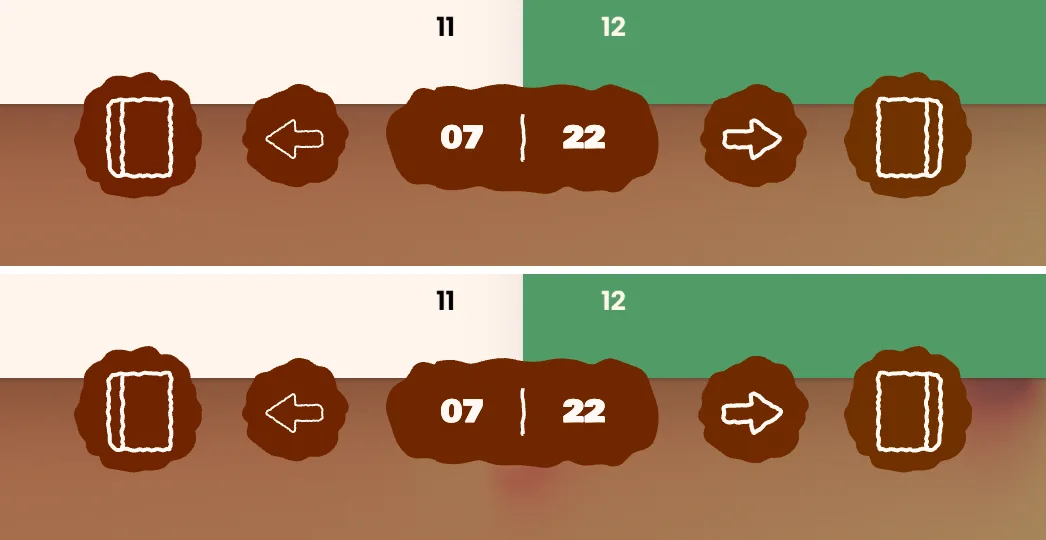
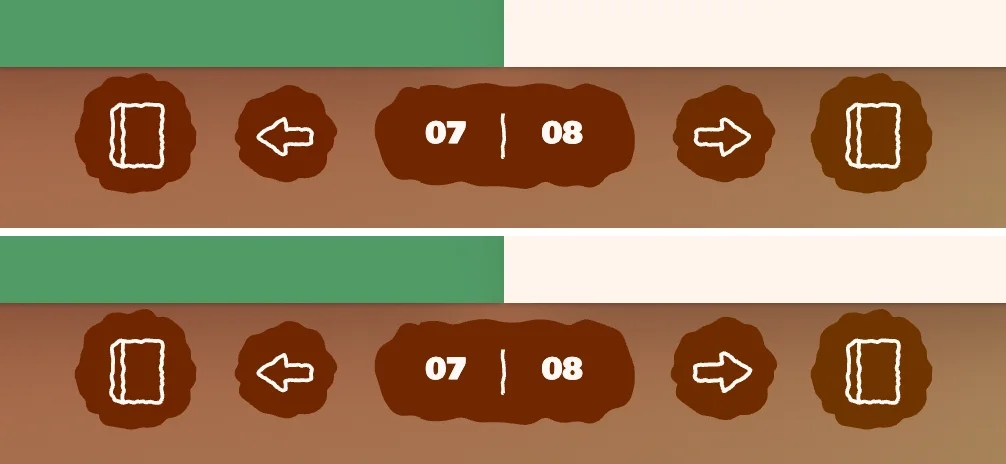
Chrome: docs and captures for the second cut — folios, the fit, the sky step, the new dials' measurements

diff --git a/docs/reader.md b/docs/reader.md
@@ -223,11 +223,12 @@ row).
 > the repo). Measurements are `scripts/sky-contrast.mjs` and captures of the
 > dev build, headless Chrome on an Apple M1 Max, 2026-09-30.
 
-Captures in `docs/chrome/`, 1440×900 @2x, a clear sky: `reader-noon`,
-`reader-dusk`, `reader-night` and the detail view's three; `reader-hover` and
-`detail-hover` (the row at rest over the row with one shape hovered, at
-dusk); `pills` (the three pill widths: 131, "Read issue" 158, "Open project"
-174).
+Captures in `docs/chrome/`, 1440×900 @2x, a clear sky, re-shot 2026-09-30
+after the second cut: `reader-noon`, `reader-dusk`, `reader-night` (the "07 |
+08" spread) and the detail view's three; `reader-hover` and `detail-hover` (the
+row at rest over the row with one shape hovered, at dusk); `pills` (the three
+pill widths — 131, "Read issue" 158, "Open project" 174 at their natural size;
+125, 151 and 166 in the capture, where the fit has the chrome at ×0.957).
 
 ### The shapes
 
@@ -408,6 +409,27 @@ never more than 0.03 at 0.5 (0.47–0.52). `chromeColor.test.ts` holds every hue
 saturation × lightness a sky could give, at lightness 0.05–0.98, ink mix 0–0.5
 and saturation 0–1.5, to ≥ 4.5 after the clamp, and the cross-fade through an
 ink flip.
+
+**The sky step** (`chromeSkyStep` 0.08), measured the same way, 2026-09-30,
+with Uko's fluid dials and the fit: the 24-state tables mark a `+` where it
+moved the paper, and the sweep counts it. `--step S` runs at another value
+(0 is off).
+
+| | 24 states: steps | sweep: steps / all (sky, shape, sample)s | dusk: steps, closest paper–sky gap | night: steps, closest gap |
+| --- | --- | --- | --- | --- |
+| reader, 1728×996 | 43 | 324,893 / 1,181,952 | 14,935, 0.078 (clear 19:40, next) | 205,402, 0.078 (clear 02:25, back) |
+| reader, 1440×900 | 41 | 337,557 / 1,161,216 | 14,373, 0.078 (partly 19:20, back-cover) | 220,870, 0.078 (clear 00:20, back) |
+| detail, 1728×996 | 38 | 255,419 / 984,960 | 12,531, 0.078 (clear 19:40, next) | 155,530, 0.078 (clear 02:25, back) |
+| detail, 1440×900 | 37 | 273,253 / 967,680 | 12,328, 0.078 (clear 19:40, action) | 175,100, 0.078 (clear 00:20, back) |
+
+It is a night-and-dusk thing, as it should be: by day the paper at 0.22 is
+far under any sky. Every step it takes is DOWN — the skies it meets are dark,
+and the paper goes to sky − 0.08 (0.06–0.21) — so each one leaves the glyph
+reading harder, not softer (a stepped clear night reads 17.6:1 where it read
+13.5). The closest a painted paper comes to its sky is 0.078, the step less
+the rounding of the paper to whole levels. The ink clamp never had to undo a
+step, and the worst glyph anywhere is still **5.21:1** with **0 clamps**: the
+step never fires on the golden sunrise that sets that number.
 
 Disabled buttons keep their paper and dim their glyph to 0.3; WCAG exempts an
 inactive control's text, and they are not measured.

diff --git a/docs/covers.md b/docs/covers.md
@@ -474,6 +474,23 @@ The design never draws one that way. It costs that much because the grid's tile
 is 300 × 400 CSS px, scaled 1.12 when focused: 672 × 896 at 2×, 2.4× the
 pixels of the 220 × 286 tile the prototype measured.
 
+**At `cardWidth` 480 the grid is over its budget at 2×.** Uko's LAYOUT tuning
+(2026-09-30) made the tile 480 wide: the shared draw is 1075 × 1434 at 2×, 2.56×
+the pixels, and it costs what that says. Measured interleaved with the build
+before the change, two rounds each, same session:
+
+| @2× | `cardWidth` 300 | `cardWidth` 480 | budget |
+| --- | --- | --- | --- |
+| the shared tile draw | 0.26–0.57 (672×896) | **0.64–0.70** (1075×1434) | — |
+| each tile: its copy | 0.053–0.063 | 0.097–0.118 | ≤ 0.15 |
+| worst frame of cover work, grid | 0.71–1.30 | **1.56–1.71** | ≤ 1.2 |
+| sky + fluid (p95) + covers | 1.86–2.96 | 2.52–2.99 | ≤ 8 |
+
+So `verify:cover`'s grid total fails at 2× at both viewports, and the frame
+as a whole (sky, fluid and covers, under 3ms) is nowhere near its 8. The
+levers, if the 1.2 matters more than the tile's size: `coverMaxDpr` on the
+grid's shared draw, or drawing the shared tile at the unfocused size.
+
 ## Rive covers (card 04)
 
 Card 04's cover is Uko's Rive file: four Nosey characters — the headset one,

diff --git a/docs/sky.md b/docs/sky.md
@@ -1211,9 +1211,15 @@ Global worst **7.50:1** (clear); a pure-white band is 7.50:1. Bar 7:1.
 Global worst **7.50:1** (clear); a pure-white band is 7.50:1. Bar 7:1.
 
 `--shipped` runs the same sweep at the shipped dials instead. It is a
-reading, not the check. As shipped the wake still takes every condition but
-storm to the floor (storm: 7.55 and 7.61), because a parting at
-`starGlow` 1.5 is still enough to flare a star to white.
+reading, not the check. Until 2026-09-30 the wake as shipped still took every
+condition but storm to the floor (storm: 7.55 and 7.61), because a parting at
+`starGlow` 1.5 was enough to flare a star to white. **With Uko's fluid dials**
+(`fluidRadius` 0.02, `fluidStrength` 0.45, `fluidCurl` 7) it does not: the
+wake now leaves partly, cloudy, fog and rain at their still values (7.61,
+7.61, 7.63, 7.99) and storm at 9.78–9.80, at both viewports; only a clear
+night still meets 7.50 (midnight, a star the wake flares; still, it is 7.51). The sweep at the
+dials' maxima — the check — did not move: 7.50 in every condition, the share
+of skies at the white floor within three points of before.
 
 **Nothing fails, and nothing was changed to make it pass.** Every
 condition reaches the same **7.50:1**, and 7.50 is exactly what a **pure
